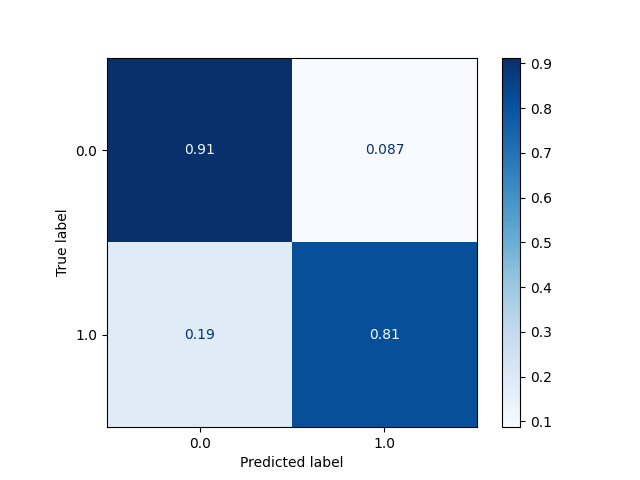
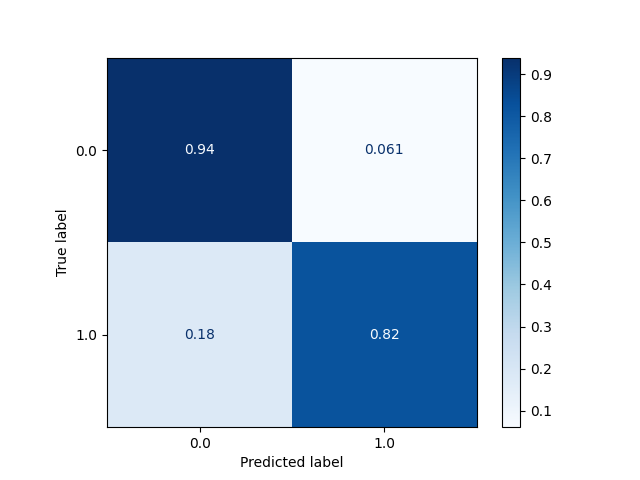
train3

diff --git a/train.py b/train.py
@@ -10,7 +10,7 @@ X_test = np.genfromtxt("data/test_features.csv")
 y_test = np.genfromtxt("data/test_labels.csv")
 
 # Fit a model
-depth = 5
+depth = 15
 clf = RandomForestClassifier(max_depth=depth)
 clf.fit(X_train, y_train)
 
